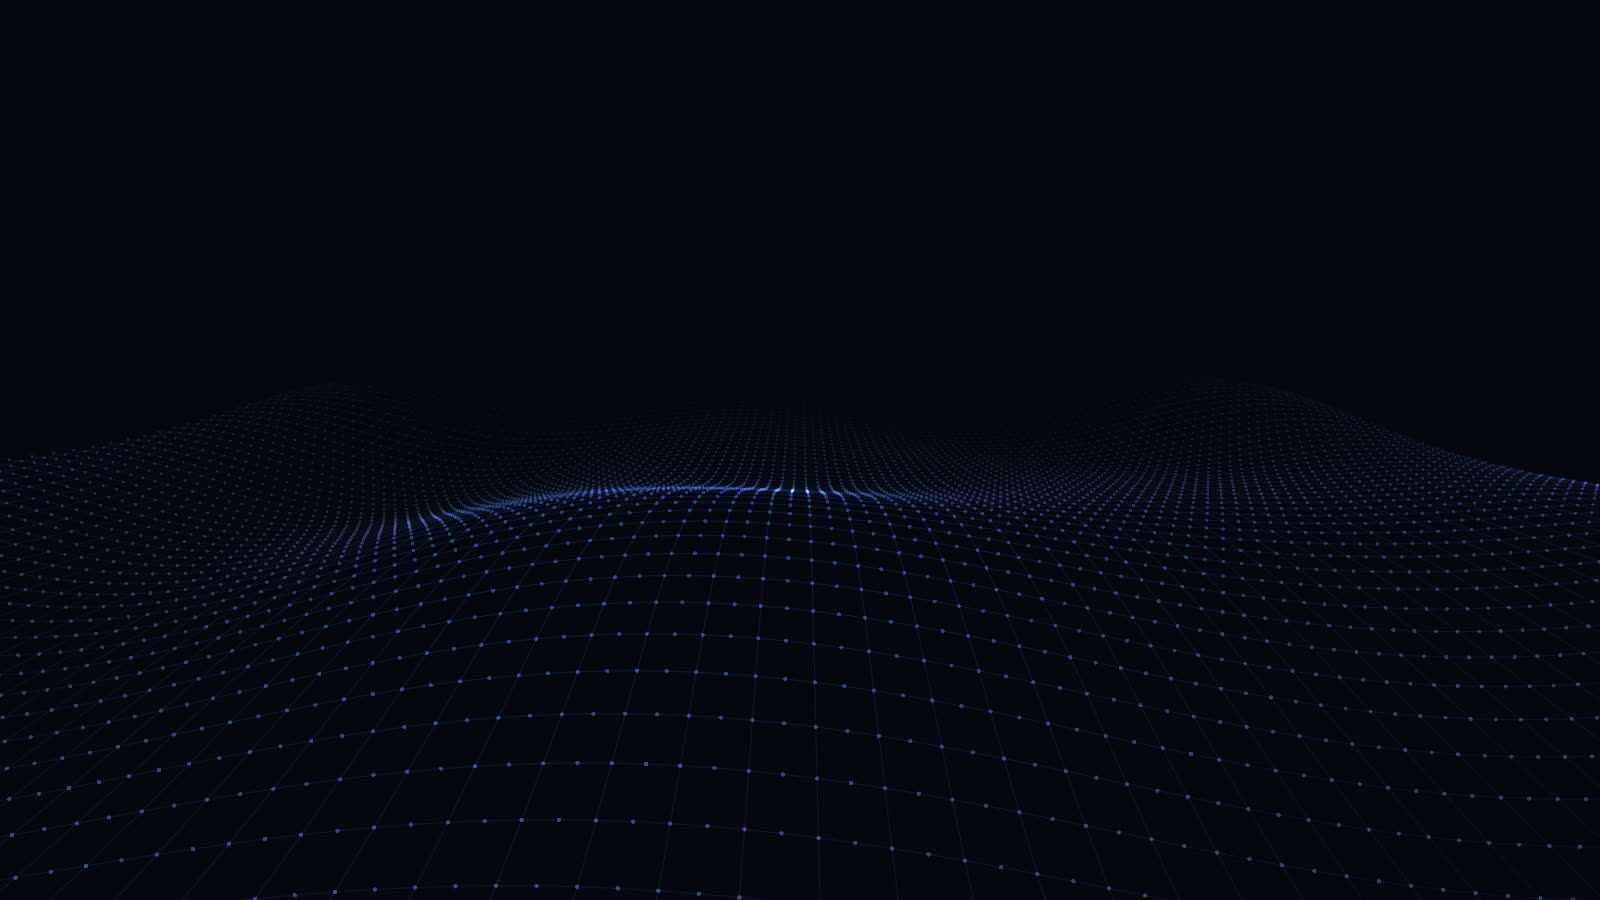
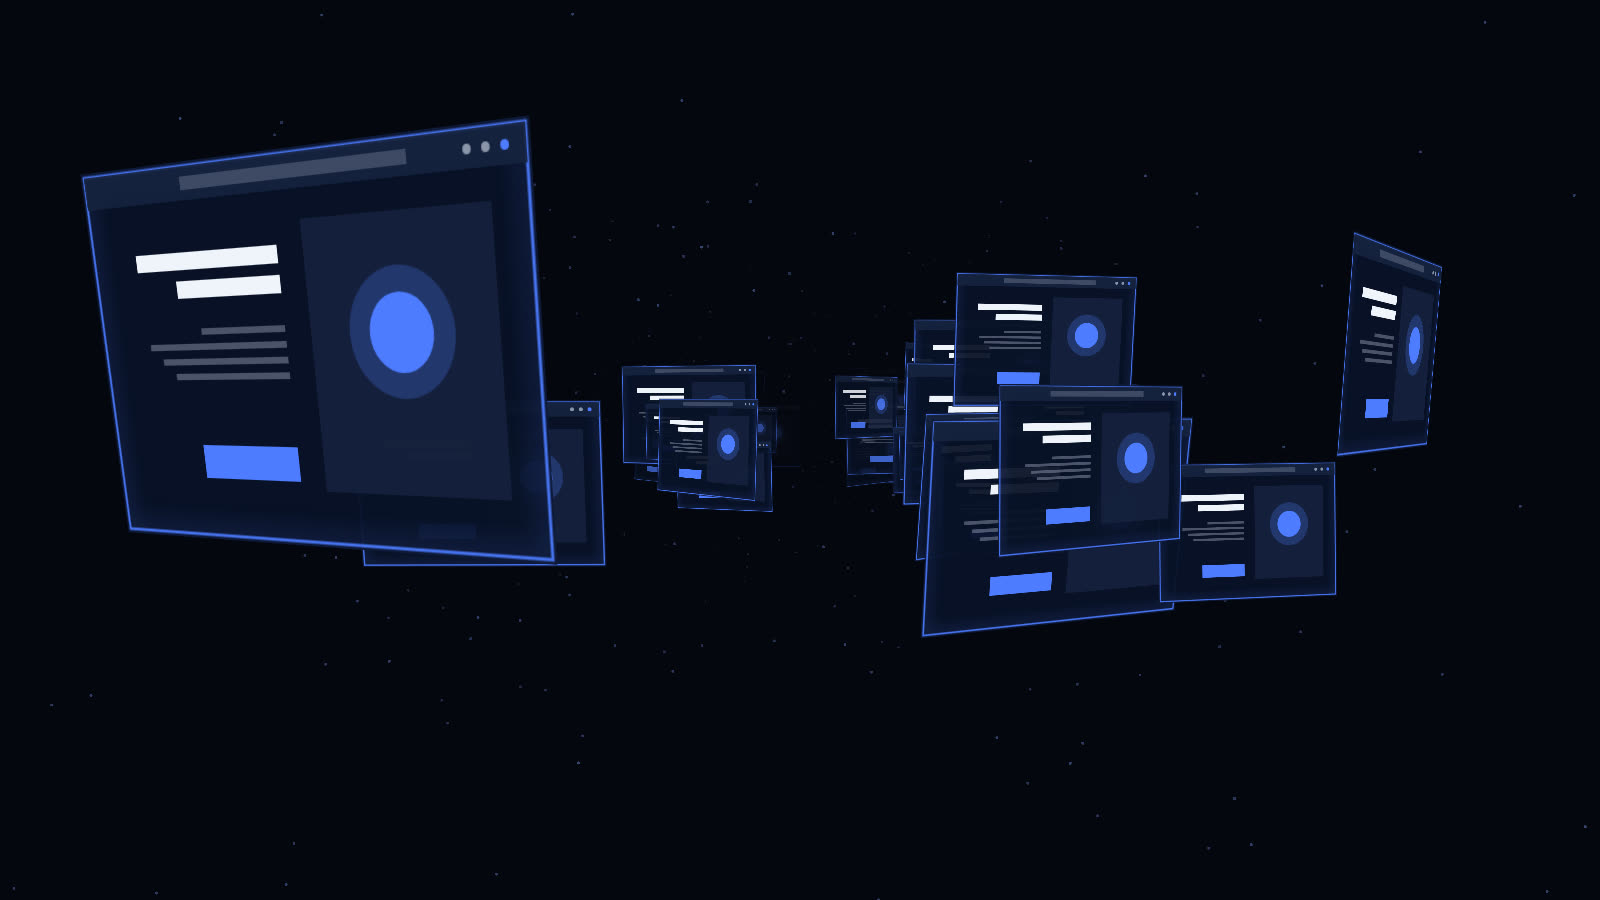
Replace hero film: flight through a gallery of floating websites
All-new scroll-scrubbed film, no longer the wave-mesh graphics: the
camera weaves through a void hung with dozens of glowing translucent
website panels (six procedurally drawn UI designs — hero, dashboard,
editorial, fintech, type specimen, product) and decelerates into one
hero site that fills the frame. Rendered deterministically from a
purpose-built WebGL capture scene; h264 + vp9, 10-frame GOP, ~1.7MB
per format (half the previous size).

Claude-Session: https://claude.ai/code/session_01GMN1Q3E5SgJUxnQ8nBu2Hu

diff --git a/motion-studio/README.md b/motion-studio/README.md
@@ -18,7 +18,8 @@ Type: **Archivo** (variable, 850 weight display) + **JetBrains Mono** (labels/da
 ## Features
 
 - **Scroll-scrubbed hero video** — a pinned 300vh hero where scroll drives the
-  playhead of an 8s cinematic camera flight over a 3D wave-mesh "web"
+  playhead of an 8s cinematic flight through a dark gallery of floating,
+  glowing website panels, arriving at one hero site
   (`hero-flight.mp4` / `.webm`, rendered from the site's own WebGL scene and
   encoded with a 10-frame GOP for smooth seeking)
 - Raw-WebGL 3D wave-mesh field as the live fallback wherever video can't load,